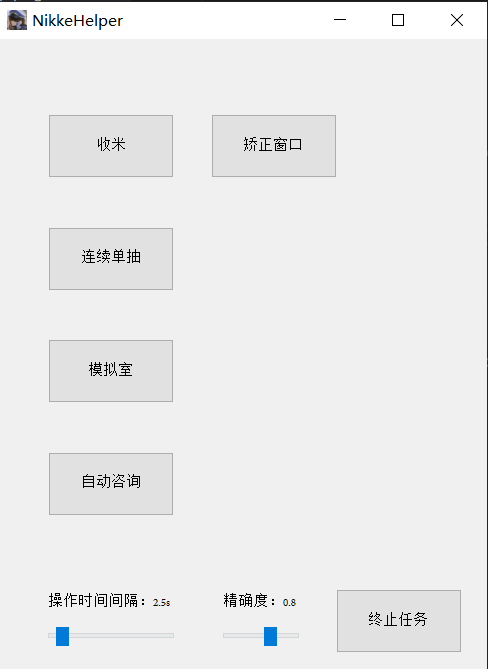
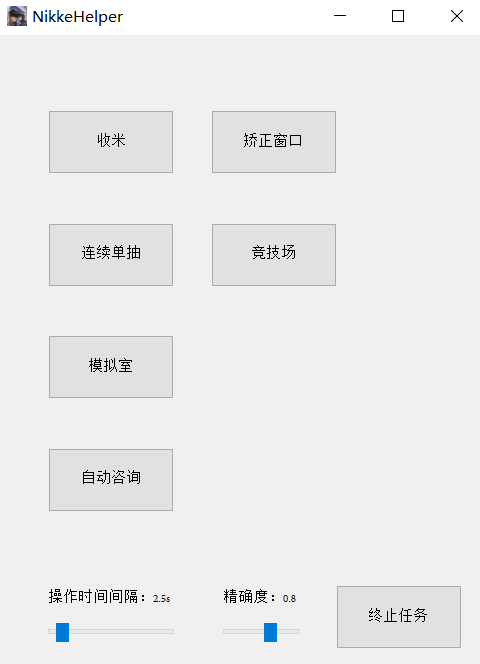
新人竞技场

diff --git a/main.py b/main.py
@@ -32,6 +32,10 @@ class TaskThread(QtCore.QThread):
             while True:
                 auto_task.auto_consult()
                 time.sleep(1)
+        elif self.task_number == 5:
+            while True:
+                auto_task.auto_arena()
+                time.sleep(1)
 
 
 class Window(QtWidgets.QWidget):
@@ -44,6 +48,7 @@ class Window(QtWidgets.QWidget):
         self.ui.pushButton2.clicked.connect(self.run_task2)
         self.ui.pushButton3.clicked.connect(self.run_task3)
         self.ui.pushButton4.clicked.connect(self.run_task4)
+        self.ui.pushButton5.clicked.connect(self.run_task5)
         self.ui.stopButton.clicked.connect(self.stop_task)
         self.ui.initButton.clicked.connect(self.correct_window)
 
@@ -63,6 +68,7 @@ class Window(QtWidgets.QWidget):
         self.task2_thread = TaskThread(2)
         self.task3_thread = TaskThread(3)
         self.task4_thread = TaskThread(4)
+        self.task5_thread = TaskThread(5)
 
     def run_task1(self):
         if self.current_thread:
@@ -94,6 +100,14 @@ class Window(QtWidgets.QWidget):
         self.current_task = "自动咨询"
         self.current_thread = self.task4_thread
         self.task4_thread.start()
+        self.start_timer()
+
+    def run_task5(self):
+        if self.current_thread:
+            self.stop_task()
+        self.current_task = "新人竞技场"
+        self.current_thread = self.task5_thread
+        self.task5_thread.start()
         self.start_timer()
 
     def stop_task(self):

diff --git a/auto_task.py b/auto_task.py
@@ -1,8 +1,6 @@
 import time
-from enum import Enum
 
 from auto_player import Player
-from main import Window
 
 my_player = Player(accuracy=0.8, adb_mode=False)
 
@@ -131,6 +129,18 @@ def auto_consult():
         my_player.find_touch(['consult_option', 'skip', 'back'])
     if my_player.exist(['rank_up']):
         my_player.find_touch(['rank_up', 'back'])
+
+
+def auto_arena():
+    if my_player.exist(['ark']):
+        my_player.find_touch(['ark', 'arena', 'arena', 'rookie_arena'])
+    if my_player.exist(['rookie_arena']):
+        my_player.find_touch(['rookie_arena'])
+    if my_player.exist(['enter_battle_2']):
+        my_player.find_touch_skewing(['enter_battle_2'], 90, 163)
+        my_player.find_touch(['enter_battle_3'])
+    if my_player.exist(['win']):
+        my_player.find_touch(['win'])
 
 
 def destroy_item(player, location):

diff --git a/ui.py b/ui.py
@@ -88,6 +88,10 @@ class Ui_Form(object):
         self.initButton.setObjectName(u"initButton")
         self.initButton.setGeometry(QRect(170, 60, 101, 51))
         self.initButton.setFont(font1)
+        self.pushButton5 = QPushButton(Form)
+        self.pushButton5.setObjectName(u"pushButton5")
+        self.pushButton5.setGeometry(QRect(170, 150, 101, 51))
+        self.pushButton5.setFont(font1)
 
         self.retranslateUi(Form)
 
@@ -105,5 +109,6 @@ class Ui_Form(object):
         self.label_2.setText("")
         self.label_3.setText("")
         self.initButton.setText(QCoreApplication.translate("Form", u"\u77eb\u6b63\u7a97\u53e3", None))
+        self.pushButton5.setText(QCoreApplication.translate("Form", u"\u7ade\u6280\u573a", None))
     # retranslateUi
 
